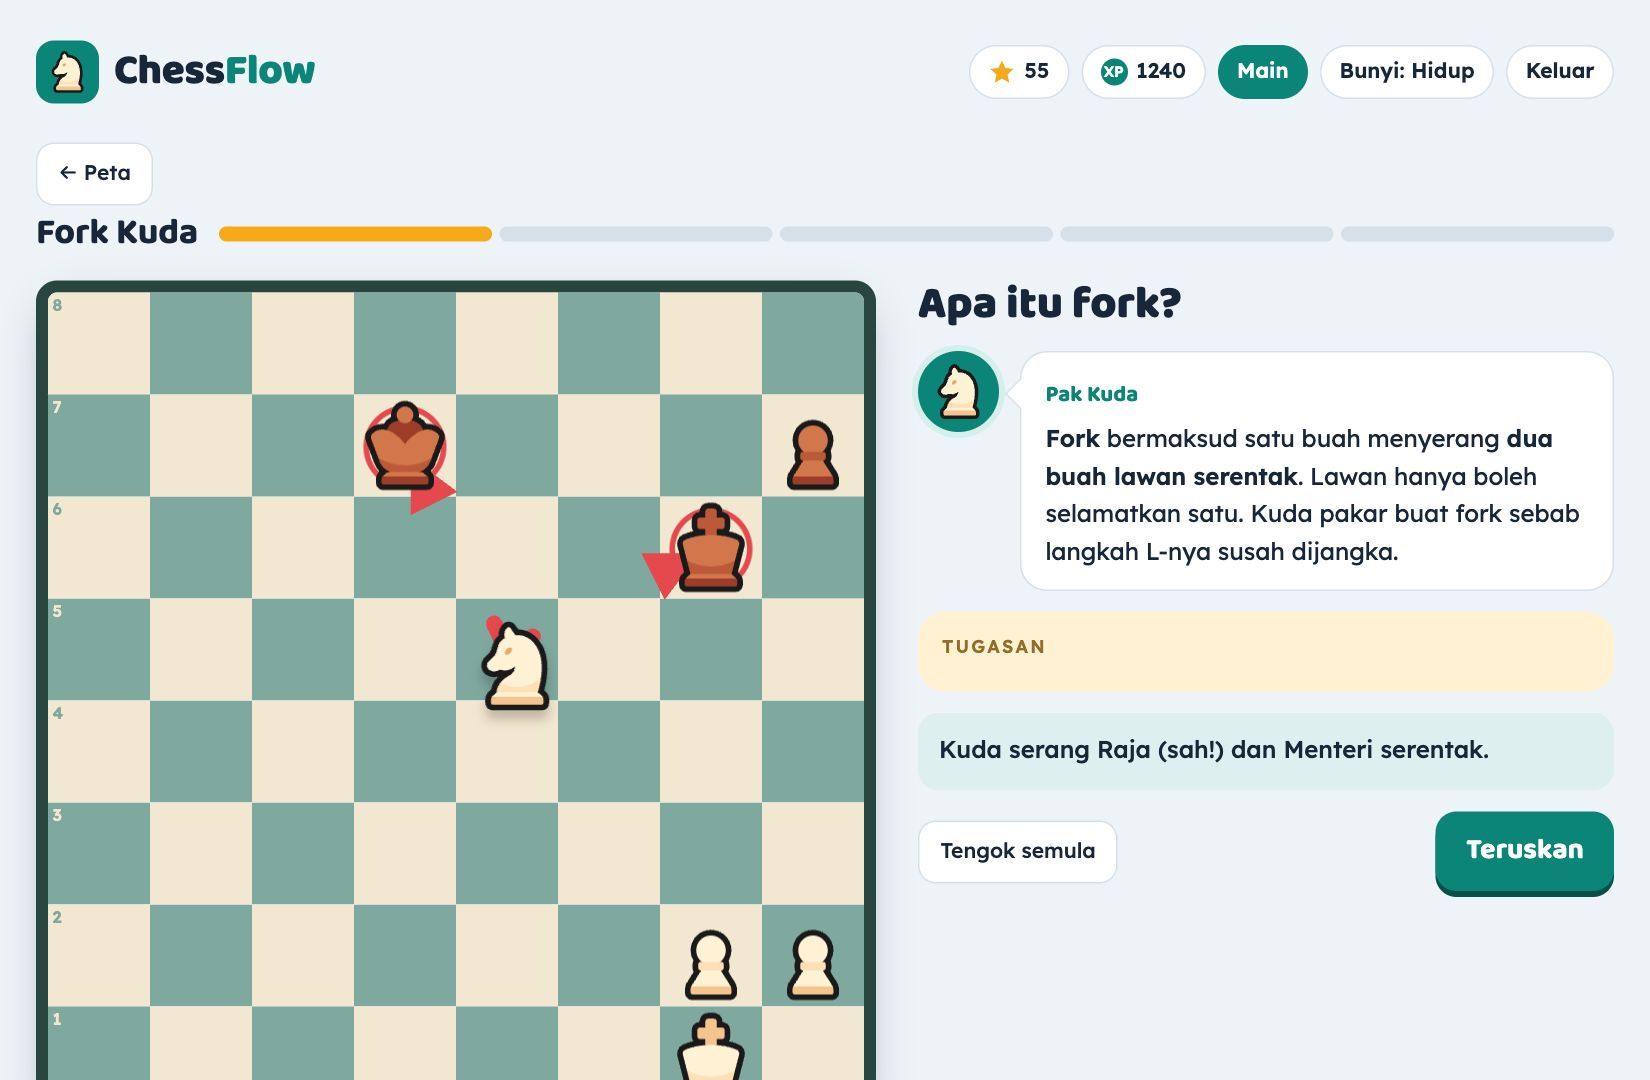
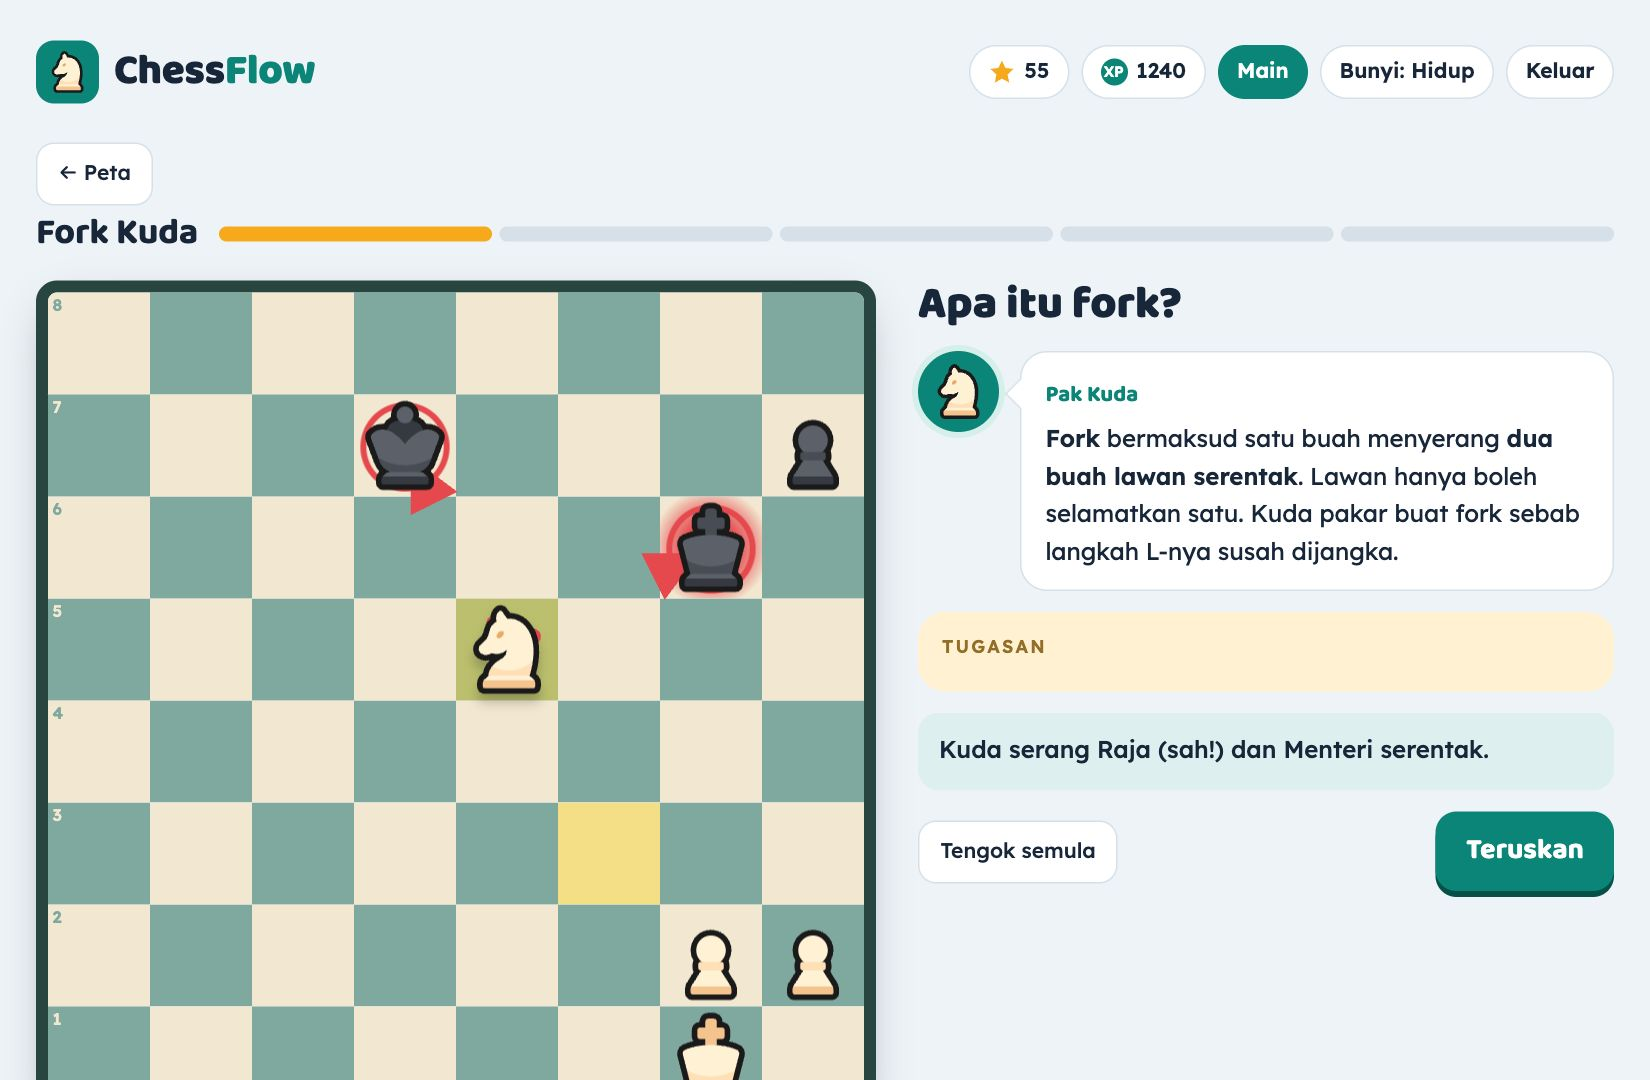
Highlight last move, king in check and captures; charcoal black pieces
Board (core/board.ts), so lessons, puzzles and games all get it:
- applyMove() marks the from/to squares of the last move (yellow overlay).
- A "+"/"#" in the move's SAN lights up the attacked king in red.
- Move targets with a piece on them are drawn as a ring instead of a dot.
- set()/undo paths clear the marks; the game no longer uses hl for this.

Pieces: rhosgfx black pieces recoloured from terracotta to charcoal so
they match the word "Hitam" used in every lesson (CC0 allows changes;
noted in pieces.css, LICENSE.txt and /tentang). Share image and landing
screenshots regenerated.

diff --git a/resources/css/chessflow/pieces.css b/resources/css/chessflow/pieces.css
@@ -1,13 +1,13 @@
-/* Piece set "rhosgfx" by RhosGFX, CC0 1.0 (public domain). Source: github.com/lichess-org/lila/tree/5b44d719ec5913dd62aa965f4b8d21e60a00c2c1/public/piece/rhosgfx */
+/* Piece set "rhosgfx" by RhosGFX, CC0 1.0 (public domain); black pieces recoloured from terracotta to charcoal so they read as "hitam". Source: github.com/lichess-org/lila/tree/5b44d719ec5913dd62aa965f4b8d21e60a00c2c1/public/piece/rhosgfx */
[18 lines of base64/hex data omitted]

diff --git a/resources/ts/chessflow/core/board.test.ts b/resources/ts/chessflow/core/board.test.ts
@@ -77,4 +77,45 @@ describe('Board', () => {
         sqEl.dispatchEvent(new MouseEvent('click', { bubbles: true }));
         expect(clicked).toBe(sq('e4'));
     });
+    const cls = (name: string) => (root.querySelector(`[data-sq="${sq(name)}"]`) as HTMLElement).classList;
+
+    it('applyMove() highlights the last move and clears the previous one', () => {
+        const b = createBoard(root);
+        b.setFen('4k3/8/8/8/8/8/4P3/4K3 w - - 0 1');
+        b.applyMove({ from: 'e2', to: 'e4', flags: 'b', san: 'e4' });
+        expect(cls('e2').contains('last')).toBe(true);
+        expect(cls('e4').contains('last')).toBe(true);
+        b.applyMove({ from: 'e8', to: 'd8', flags: 'n', san: 'Kd8' });
+        expect(cls('e2').contains('last')).toBe(false);
+        expect(cls('d8').contains('last')).toBe(true);
+    });
+
+    it('applyMove() lights up the king that is put in check, and clears it after the reply', () => {
+        const b = createBoard(root);
+        b.setFen('4k3/8/8/8/8/8/8/R3K3 w - - 0 1');
+        b.applyMove({ from: 'a1', to: 'a8', flags: 'n', san: 'Ra8+' });
+        expect(cls('e8').contains('check')).toBe(true);
+        b.applyMove({ from: 'e8', to: 'e7', flags: 'n', san: 'Ke7' });
+        expect(root.querySelectorAll('.sq.check').length).toBe(0);
+    });
+
+    it('draws capture targets as rings and empty targets as dots', () => {
+        const b = createBoard(root);
+        b.set([
+            { c: 'w', t: 'N', sq: sq('d4') },
+            { c: 'b', t: 'P', sq: sq('f5') },
+        ]);
+        b.mark({ dots: [sq('f5'), sq('e6')] });
+        expect(cls('f5').contains('cap')).toBe(true);
+        expect(cls('f5').contains('dot')).toBe(false);
+        expect(cls('e6').contains('dot')).toBe(true);
+    });
+
+    it('set() clears last-move and check marks', () => {
+        const b = createBoard(root);
+        b.setFen('4k3/8/8/8/8/8/8/R3K3 w - - 0 1');
+        b.applyMove({ from: 'a1', to: 'a8', flags: 'n', san: 'Ra8+' });
+        b.setFen('4k3/8/8/8/8/8/8/R3K3 w - - 0 1');
+        expect(root.querySelectorAll('.sq.last, .sq.check').length).toBe(0);
+    });
 });

diff --git a/resources/ts/chessflow/core/board.ts b/resources/ts/chessflow/core/board.ts
@@ -153,22 +153,33 @@ export function createBoard(root: HTMLElement, orient: 'w' | 'b' = 'w'): BoardAp
                     }, 260);
                 }
             }
+            // A "+" or "#" in the SAN means the other side's king is now attacked.
+            const mover = api.at(to);
+            const king = mover && m.san && /[+#]$/.test(m.san) ? api.all().find((p) => p.t === 'K' && p.c !== mover.c) : undefined;
+            api.mark({ last: [from, to], check: king ? [king.sq] : [] });
         },
         mark(patch) {
             mark = Object.assign({}, mark, patch);
-            const set = (k: 'dots' | 'good' | 'ring' | 'stars' | 'hl') => new Set(expandSq(mark[k]));
+            const set = (k: 'dots' | 'good' | 'ring' | 'stars' | 'hl' | 'last' | 'check') => new Set(expandSq(mark[k]));
             const dots = set('dots');
             const good = set('good');
             const ring = set('ring');
             const star = set('stars');
             const hl = set('hl');
+            const last = set('last');
+            const check = set('check');
             const sel = mark.sel == null ? -1 : typeof mark.sel === 'string' ? sq(mark.sel) : mark.sel;
             els.forEach((b, i) => {
-                b.classList.toggle('dot', dots.has(i));
+                // A target with a piece on it is a capture: drawn as a ring around the piece instead of a dot.
+                const cap = dots.has(i) && api.at(i) !== null;
+                b.classList.toggle('dot', dots.has(i) && !cap);
+                b.classList.toggle('cap', cap);
                 b.classList.toggle('good', good.has(i));
                 b.classList.toggle('ring', ring.has(i));
                 b.classList.toggle('star', star.has(i));
                 b.classList.toggle('hl', hl.has(i));
+                b.classList.toggle('last', last.has(i));
+                b.classList.toggle('check', check.has(i));
                 b.classList.toggle('sel', sel === i);
             });
         },

diff --git a/resources/css/chessflow/base.css b/resources/css/chessflow/base.css
@@ -7,6 +7,7 @@
   --display:"Baloo 2", "Trebuchet MS", system-ui, sans-serif;
   --body:"Lexend", "Segoe UI", system-ui, sans-serif;
   --r:18px;
+  --last-move:rgba(246,214,60,.5);
 }
 @media (prefers-color-scheme: dark){:root:not([data-theme="light"]){
   --bg:#0E1622; --surface:#172234; --ink:#E7EEF6; --muted:#9BABC0; --line:#26354B;
@@ -122,10 +123,14 @@ kbd{font-family:var(--body);font-weight:600;background:var(--accent-soft);paddin
 .sq .cr,.sq .cf{position:absolute;font-size:clamp(8px,1.6vw,11px);font-weight:600;line-height:1;pointer-events:none}
 .sq .cr{top:3px;left:3px} .sq .cf{bottom:3px;right:4px}
 .sq.light .cr,.sq.light .cf{color:var(--sq-dark)} .sq.dark .cr,.sq.dark .cf{color:var(--sq-light)}
+/* last move + king in check: overlays, so they work on both square colours; sel/good/hl below still win */
+.sq.last{background-image:linear-gradient(var(--last-move),var(--last-move))}
+.sq.check{background-image:radial-gradient(circle,var(--coral) 0,var(--coral) 34%,color-mix(in srgb,var(--coral) 55%,transparent) 58%,transparent 82%)}
 .sq.sel{background:color-mix(in srgb,var(--sun) 70%,var(--sq-light))}
 .sq.good{background:color-mix(in srgb,var(--good) 55%,var(--sq-light))}
 .sq.hl{background:color-mix(in srgb,var(--accent) 35%,var(--sq-light))}
 .sq.dot::after{content:"";position:absolute;inset:36%;border-radius:50%;background:rgba(20,40,50,.32)}
+.sq.cap::after{content:"";position:absolute;inset:0;background:radial-gradient(transparent 62%,rgba(20,40,50,.34) 64%)}
 .sq.ring::after{content:"";position:absolute;inset:6%;border-radius:50%;border:4px solid var(--coral);animation:ringp 1s ease-in-out infinite alternate}
 .sq.star::before{content:"";position:absolute;inset:18%;background:var(--sun);-webkit-mask:var(--star-mask) center/contain no-repeat;mask:var(--star-mask) center/contain no-repeat;animation:bob 1.6s ease-in-out infinite;filter:drop-shadow(0 2px 0 rgba(0,0,0,.25))}
 .sq.bad{animation:flashbad .6s}

diff --git a/resources/ts/chessflow/game/game.ts b/resources/ts/chessflow/game/game.ts
@@ -232,7 +232,7 @@ export class GameRunner {
     private apply(m: { from: string; to: string; promotion?: string }): Move {
         const r = this.g.move(m);
         this.board.applyMove(r);
-        this.board.mark({ hl: [sq(r.from), sq(r.to)], sel: null, dots: [] });
+        this.board.mark({ sel: null, dots: [] });
         this.board.arrows([]);
         const fen = this.g.fen();
         this.later(() => this.board.quiet(fen), 420);
@@ -304,7 +304,7 @@ export class GameRunner {
         if (this.g.turn() !== this.user) this.g.undo();
         this.over = false;
         this.board.quiet(this.g.fen());
-        this.board.mark({ hl: [], sel: null, dots: [] });
+        this.board.mark({ hl: [], last: [], check: [], sel: null, dots: [] });
         this.board.arrows([]);
         this.sel = null;
         this.status('Langkah diundur.', 'info');

diff --git a/resources/ts/chessflow/types.ts b/resources/ts/chessflow/types.ts
@@ -192,6 +192,10 @@ export interface MarkPatch {
     ring?: SquareSpecOrIndex[];
     stars?: SquareSpecOrIndex[];
     hl?: SquareSpecOrIndex[];
+    /** From/to squares of the last move played on the board. */
+    last?: SquareSpecOrIndex[];
+    /** Square of a king in check. */
+    check?: SquareSpecOrIndex[];
     sel?: SquareSpecOrIndex | null;
 }
 
@@ -213,7 +217,7 @@ export interface BoardApi {
     all(): (Piece & { id: number; el: HTMLElement })[];
     remove(i: number): void;
     move(from: number, to: number): void;
-    applyMove(m: { from: string; to: string; flags: string; promotion?: string }): void;
+    applyMove(m: { from: string; to: string; flags: string; promotion?: string; san?: string }): void;
     mark(patch: MarkPatch): void;
     flash(i: number): void;
     arrows(list: (ArrowSpec | ArrowDrawSpec)[]): void;

diff --git a/resources/ts/chessflow/steps/puzzle.ts b/resources/ts/chessflow/steps/puzzle.ts
@@ -148,7 +148,7 @@ export function puzzle(st: PuzzleStep, c: StepContext): void {
             c.later(() => {
                 g.undo();
                 b.quiet(g.fen());
-                b.mark({ good: [] });
+                b.mark({ good: [], last: [], check: [] });
                 busy = false;
                 if (wrong >= 2) hint();
             }, 950);

diff --git a/resources/views/pages/⚡tentang.blade.php b/resources/views/pages/⚡tentang.blade.php
@@ -22,7 +22,7 @@ new #[Layout('layouts::chessflow')] #[Title('Tentang')] class extends Component 
     <ul>
         <li><b>Stockfish</b> (enjin catur untuk permainan dan petunjuk) — lesen GNU GPL v3. Kami guna <a href="https://github.com/nmrugg/stockfish.js">Stockfish.js 10</a>, versi WebAssembly; kod sumber Stockfish di <a href="https://github.com/official-stockfish/Stockfish">github.com/official-stockfish/Stockfish</a>. Fail enjin dihantar tanpa diubah di <a href="/stockfish/stockfish.js">/stockfish/</a>.</li>
         <li><b>chess.js</b> (peraturan catur) — lesen BSD-2-Clause, oleh Jeff Hlywa. <a href="https://github.com/jhlywa/chess.js">github.com/jhlywa/chess.js</a></li>
-        <li><b>Gambar buah catur</b> — set "rhosgfx" oleh RhosGFX, didedikasikan ke domain awam (CC0 1.0). Diambil dari <a href="https://github.com/lichess-org/lila/tree/master/public/piece/rhosgfx">repo Lichess</a>.</li>
+        <li><b>Gambar buah catur</b> — set "rhosgfx" oleh RhosGFX, didedikasikan ke domain awam (CC0 1.0). Diambil dari <a href="https://github.com/lichess-org/lila/tree/master/public/piece/rhosgfx">repo Lichess</a>; warna buah hitam kami ubah kepada kelabu gelap.</li>
         <li><b>Fon</b> Baloo 2 dan Lexend — lesen SIL Open Font License 1.1, dihantar melalui Bunny Fonts.</li>
         <li>Dibina dengan Laravel, Livewire dan Filament (lesen MIT).</li>
     </ul>
